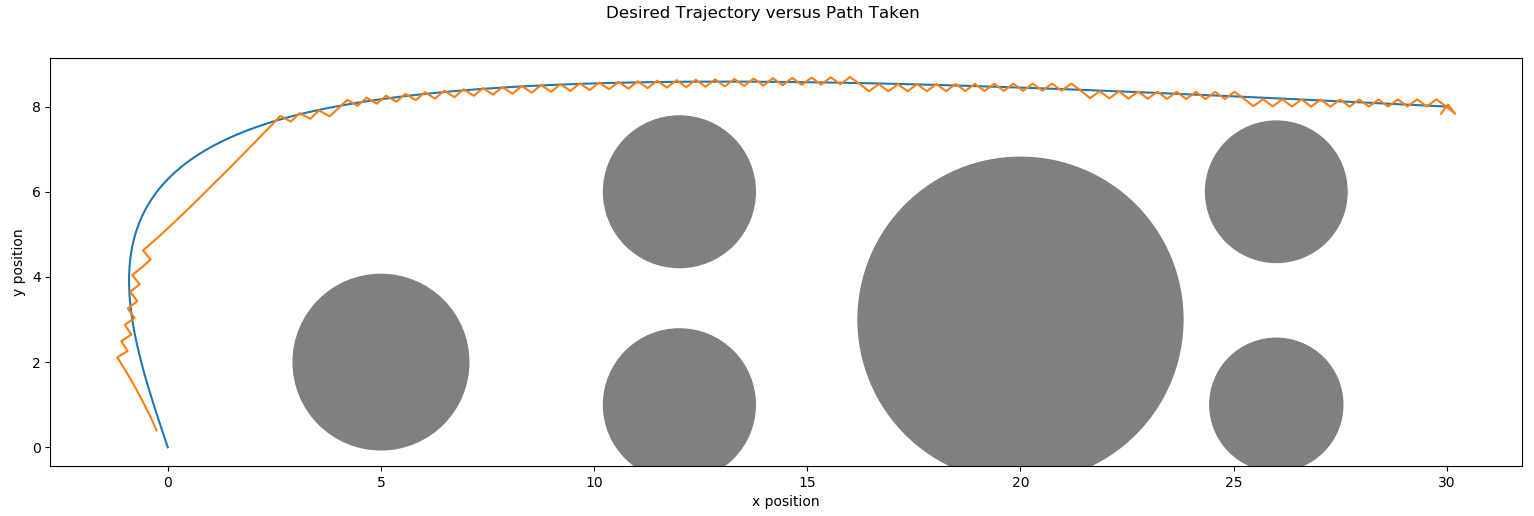
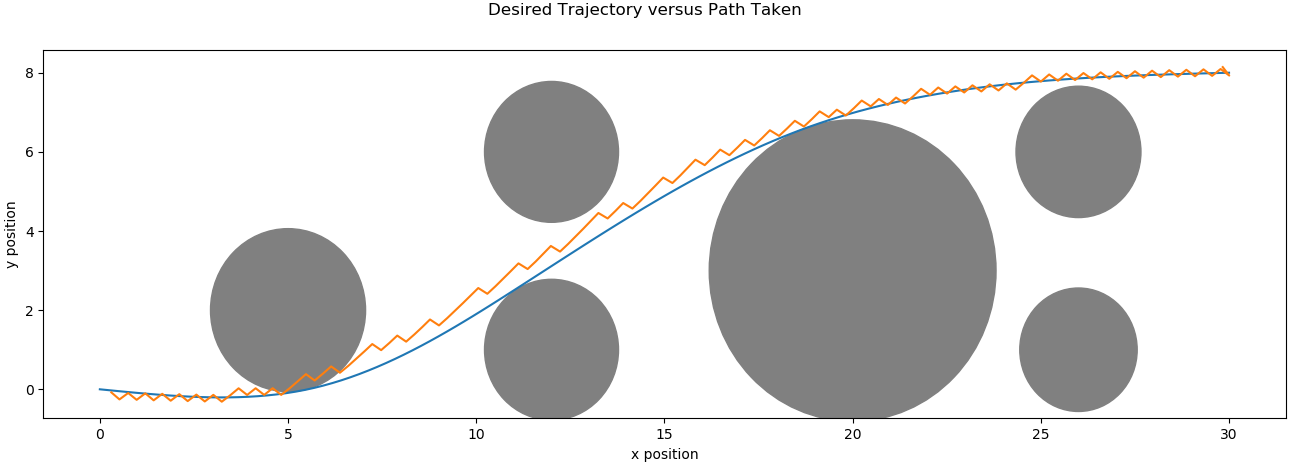
added navigationPY_aug containing affine approximations of individual nonconvex constraints

diff --git a/navigationPY_aug.py b/navigationPY_aug.py
@@ -1,0 +1,146 @@
+# -*- coding: utf-8 -*-
+"""
+Created on Sat May 23 21:33:43 2020
+
+@author: user
+"""
+
+#generate data to read for navigation
+
+import math
+import numpy as np
+import cvxpy as cp
+import copy
+
+#ROBOT DIMENSIONS
+neutralAnkle = math.radians(30)
+roboRadius = 0.2*math.sqrt(2) #radius of robot from geometric center to hip joint
+l1=0.2*math.sqrt(2) #length of first leg segment after hip joint
+l2=0.4*math.sqrt(2) #length of second seg segment (after ankle joint)
+neutralRadiusTotal = l2*math.cos(neutralAnkle)+l1+roboRadius #radius of pitch circle
+
+#DECLARATION OF VALUES FOR NAVIGATION
+
+NavigatioN = 120 #total number of steps in navigation
+pInitial = np.array([0, 0]) #Coordinates of initial position of agent
+pFinal = np.array([30,8]) #coordinates of goal location
+
+pObs = np.array([[5,2],[12,6],[12,1],[20,3],[26,6],[26,1]]) #positions of center of obstacles
+rObs = np.array([[2.06],[1.78],[1.78],[3.81],[1.66],[1.56]]) #radii of obstacles
+
+obstacles = len(rObs) #total number of obstacles to dodge
+
+pt = np.ones((NavigatioN,2)) #steps in navigation, 2D space
+
+for i in range(1,NavigatioN-1):
+	pt[i,:] = pInitial+(((pFinal-pInitial)/NavigatioN)*i) #linear interpolation for lowest cost path with no obstacles
+
+#print(pt)
+	
+diff = math.inf #initialize to unreasonable value to overwrite in loop
+epsilon = 0.01 #tolerance for convergence of the solution
+
+while abs(diff) > epsilon:
+	#EXTRANEOUS CALCULATION OF OBJECTIVE VALUE
+	prevGas = 0
+	for i in range(1,NavigatioN-1):
+		prevGas = prevGas + np.linalg.norm(pt[i-1,:]-2*pt[i,:]+pt[i+1,:])**2
+	
+	print('prev: ',prevGas)
+	
+	#SOLVING TRAJECTORY AS CONVEX PROBLEM
+	pL = cp.Variable((NavigatioN,2)) #number of dimensions, number of steps, details of trajectory
+	#pR = cp.Variable((NavigatioN,2)) #number of steps, number of dimensions, right trajectory
+	
+	gasolina = cp.expressions.expression.Expression #to hold value of objective function
+#	distance = cp.expressions.expression.Expression #to hold a given distance between a step and obstacle
+#	divergence = cp.expressions.expression.Expression #to hold the difference between the variable value and previous calculation for a step
+	
+	gasolina = 0
+	for i in range(1,NavigatioN-1): #intermediate steps
+	    gasolina += cp.norm(pL[i-1,:]-2*pL[i,:]+pL[i+1,:],2)**2 #calculation of squared 2-norms to be added for objective function
+	    #gasolina += cp.norm(pR[i-1,:]-2*pR[i,:]+pR[i+1,:],2)**2 #squared 2-norms for right trajectory
+	         
+	objectNav = cp.Minimize(gasolina)
+	
+	constrNav = [] #initialize constraints list
+	 
+	constrNav += [pL[0,:] == pInitial] #initial and final positions
+	constrNav += [pL[NavigatioN-1,:] == pFinal]
+#	constrNav += [pR[0,:] == pInitial] #right trajectory
+#	constrNav += [pR[NavigatioN-1,:] == pFinal]
+	
+	    
+	for o in range(0,obstacles): #constraints for each obstacle
+	    for i in range(1,NavigatioN-1): #apply constraints to mutable steps
+#	        distance = pt[i,:] - pObs[o,:]
+#	        print(distance)
+#	        divergence = pL[i,:]-pt[i,:]
+#	        print(divergence)
+#	        constrNav += [rObs[o] - cp.norm(distance) - (distance/cp.norm(distance))*np.transpose(pL[i,:]-pt[i,:]) <= 0]
+#	        print(pt[i,:] - pObs[o,:])
+#	        print(np.transpose(pt[i,:] - pObs[o,:]))
+	        constrNav += [rObs[o] - cp.norm((pt[i,:] - pObs[o,:])) - np.dot(((pt[i,:] - pObs[o,:])/cp.norm((pt[i,:] - pObs[o,:]))),(pL[i,:]-pt[i,:])) <= 0]
+	
+	problem = cp.Problem(objectNav,constrNav)
+	optval = problem.solve(solver=cp.ECOS)
+	#END OF CONVEX OPTIMIZATION PART
+	
+	print('opt :',optval) #monitor
+	pt = copy.deepcopy(pL.value) #for use in following iteration
+	diff = prevGas - optval #for checking convergence via while loop
+	
+	
+#print(objectNav)
+print('final opt val: ',optval)
+#print(pL.value)
+#print(pR.value)
+
+#dieseL = 0
+#dieseR = 0
+#for g in range(1,NavigatioN-1): #selecting which path to take
+#    dieseL += np.linalg.norm(pL.value[g-1,:]-2*pL.value[g,:]+pL.value[g+1,:],2)**2
+#    dieseR += np.linalg.norm(pR.value[g-1,:]-2*pR.value[g,:]+pR.value[g+1,:],2)**2
+   
+path = copy.deepcopy(pL.value) #once more with feeling 
+#if dieseL <= dieseR:
+#   path = copy.deepcopy(pL.value)
+#    print('left')
+#else:
+#    path = copy.deepcopy(pR.value)
+#    print('right')
+print(path)
+    
+#def nextTarget(i,path,botPosition,navRadius): #arguments are index in path vector, path vector, current location of bot (3d), radius of bot for navigation
+#    print('current location: ',botPosition[:2])
+#    print('vector to target: ',path[i]-botPosition[:2])
+#    print('distance to target: ',np.linalg.norm(path[i]-botPosition[:2]))
+#    if i >= len(path)-1: #we are using the goal location
+#        return len(path)-1 #use the goal location  
+#    path_subset = path[i:] #vector to hold future elements of the path
+#    #twoDist = math.inf #start at unreasonable value, to overwrite
+#    for step in range(len(path_subset)-1,-1,-1): #iterate backwards over next target positions
+#        twoDist = np.linalg.norm(path[step]-botPosition[:2])
+#        if twoDist <= navRadius: #closest upcoming point that is outside of the nav radius
+#            return min(i+step+1,len(path)-1)
+#    
+#    return i #no change in target index
+	
+def nextTarget(i,path,botPosition,navRadius): #arguments are index in path vector, path vector, current location of bot (3d), radius of bot for navigation
+    print('current location: ',botPosition[:2])
+    print('vector to target: ',path[i]-botPosition[:2])
+    print('distance to target: ',np.linalg.norm(path[i]-botPosition[:2]))
+    if i >= len(path)-1: #we are using the goal location
+        return (len(path)-1) #use the goal location
+    elif np.linalg.norm(path[i]-botPosition[:2]) > navRadius: #next point already outside of nav radius
+        return i
+    twoDist =0; #euclidean distance between current location and potential next target location
+    while (twoDist <= navRadius) and (i <= len(path)-1):
+        twoDist = np.linalg.norm(path[i]-botPosition[:2])
+        i += 1
+    return min(i,len(path)-1)
+
+#testTarget = nextTarget(0,path,[0,0,0],neutralRadiusTotal)
+#
+#print(testTarget)
+#print(path[testTarget])

diff --git a/robot_aug_plot.py b/robot_aug_plot.py
@@ -442,7 +442,7 @@ while(not GoalReached):
 					print('Objective value is: ', torque_sum)
 					fig = plt.figure()
 					ax1 = fig.add_subplot(413)
-					plt.rc('text', usetex=True)
+#					plt.rc('text', usetex=True)
 					ax1.title.set_text('Joint Angles versus Time (Post-CVX Solve)')
 
 					#plt.plot(theta_plot[0, :], label=r'\theta_1')
@@ -465,7 +465,7 @@ while(not GoalReached):
 					plt.ylabel('Time (0.25 seconds)')
 
 					ax1 = fig.add_subplot(411)
-					plt.rc('text', usetex=True)
+#					plt.rc('text', usetex=True)
 					ax1.title.set_text('Joint Angles versus Time (Pre-CVX Solve)')
 
 					plt.plot(theta_first[0, :], label='theta_1')
